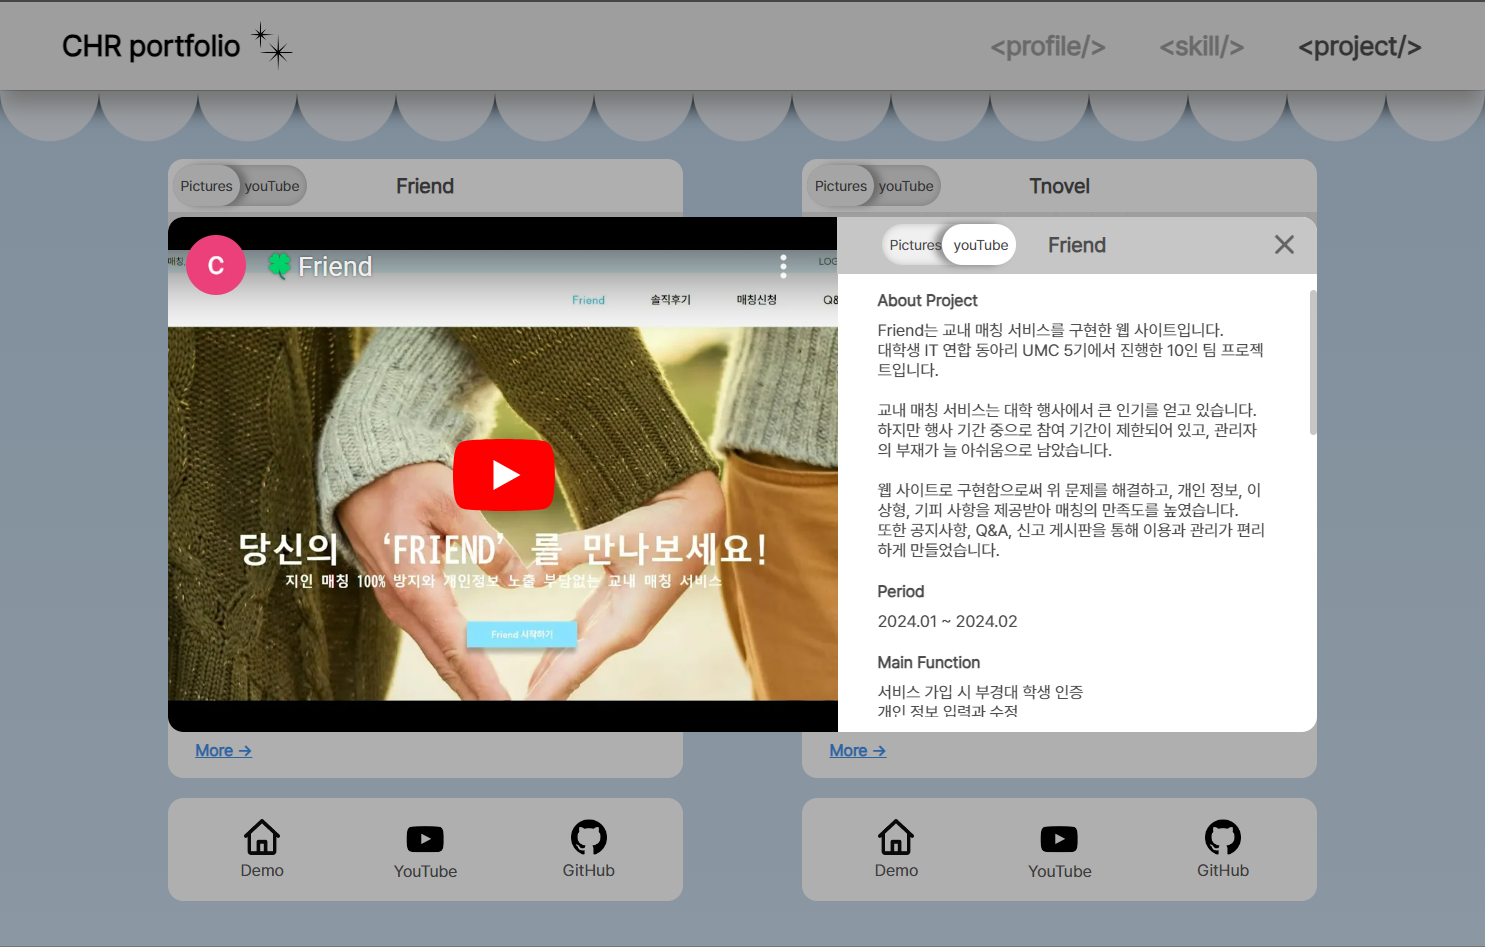
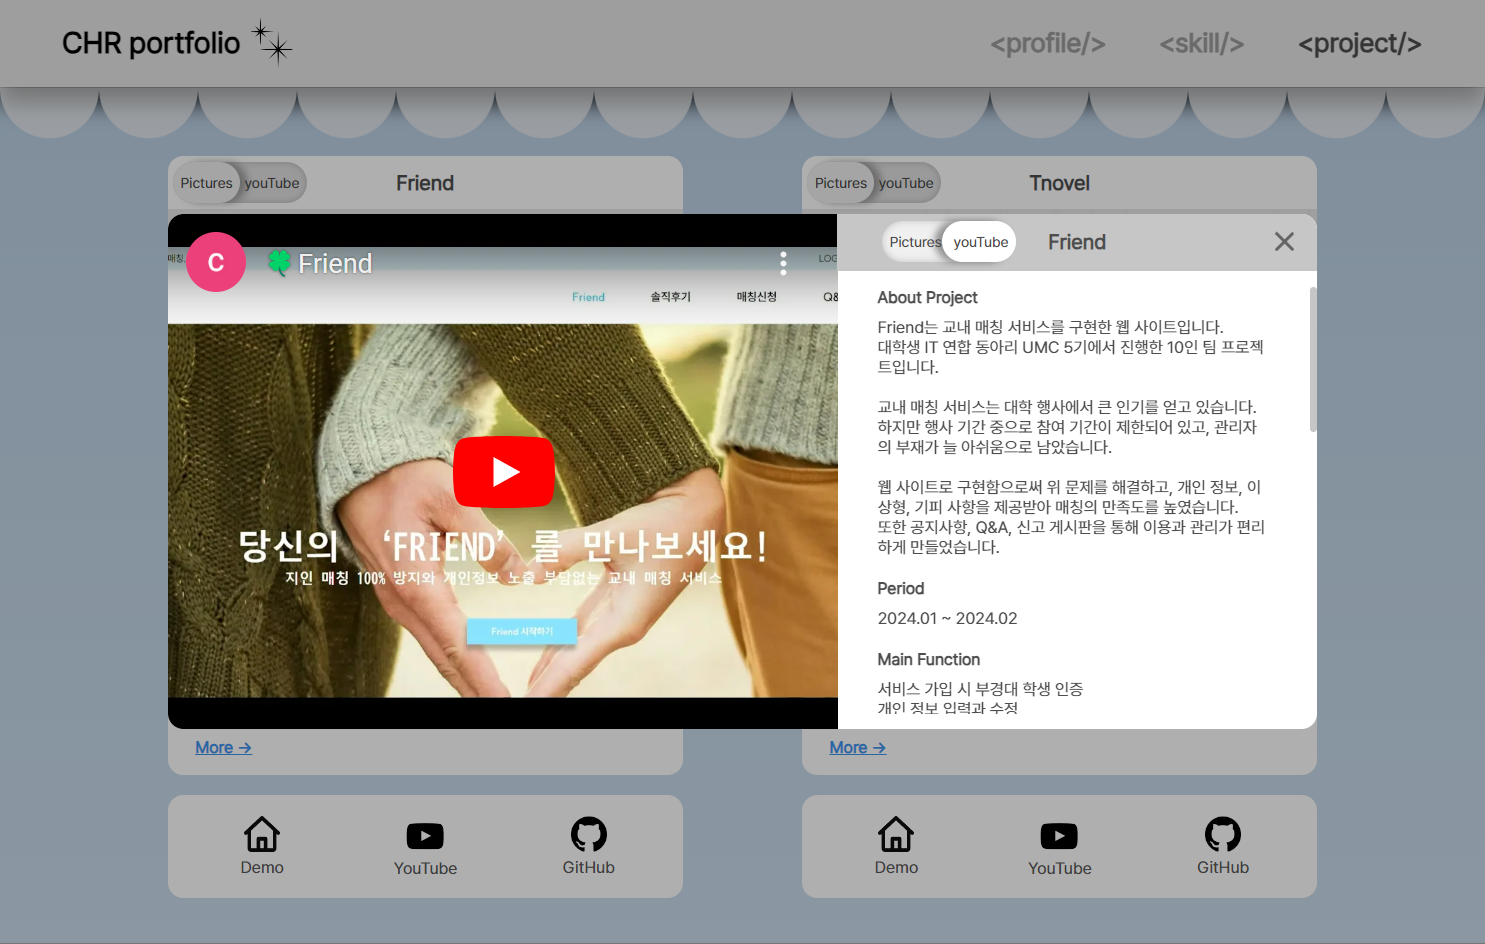
사진 css 수정

diff --git a/components/componentsStyles/ProjectModal.module.css b/components/componentsStyles/ProjectModal.module.css
@@ -75,7 +75,7 @@
     width: 45.14vw;
     height: 25.72vw;
 
-    object-fit: cover;
+    /* object-fit: cover; */
 
     margin-top: 3.85vw;
 }
